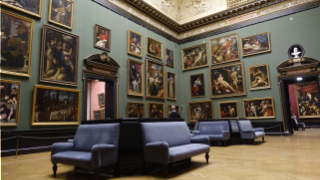
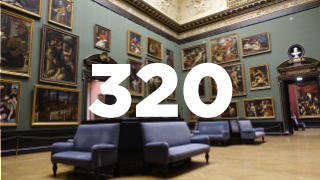
uploaded the images and made it  responsive

Changed region(s): [[0.2812, 0.3333, 0.75, 0.6667]]

diff --git a/index.html b/index.html
@@ -11,13 +11,40 @@
 
 <body>
   <header class="header">
+
     <div class="title">
       <h1>Picture This!</h1>
       <h4>My Really Cool Blog Post</h4>
     </div>
-    <img src="images/museum.jpg" alt="placeholder">
+
+    <picture>
+            <source media="(min-width: 960px)" srcset="
+            images/museum-480_x_480.jpg 480w,
+            images/museum-640_x_640.jpg 640w,
+            images/museum-800_x_800.jpg 800w,
+            images/museum-960_x_960.jpg 960w,
+            images/museum-1280_x_1280.jpg 1280w,
+            images/museum-1440_x_1440.jpg 1440w,
+            images/museum-1600_x_1600.jpg 1600w,
+            images/museum-1920_x_1920.jpg 1920w,
+            images/museum-2400_x_2400.jpg 2400w">
+
+            <source media="(max-width: 959px)" srcset="
+            images/museum-320_x_180.jpg 320w,
+            images/museum-480_x_270.jpg 480w,
+            images/museum-640_x_360.jpg 640w,
+            images/museum-720_x_405.jpg 720w,
+            images/museum-960_x_540.jpg 960w,
+            images/museum-1440_x_810.jpg 1440w,
+            images/museum-1920_x_1080.jpg 1920w,
+            images/museum-2160_x_1215.jpg 2160w,
+            images/museum-2880_x_1621.jpg 2880w">
+
+            <img src="images/museum-2880_x_1621.jpg" alt="placeholder">
+      </picture>
 
   </header>
+
 </body>
 
 </html>
